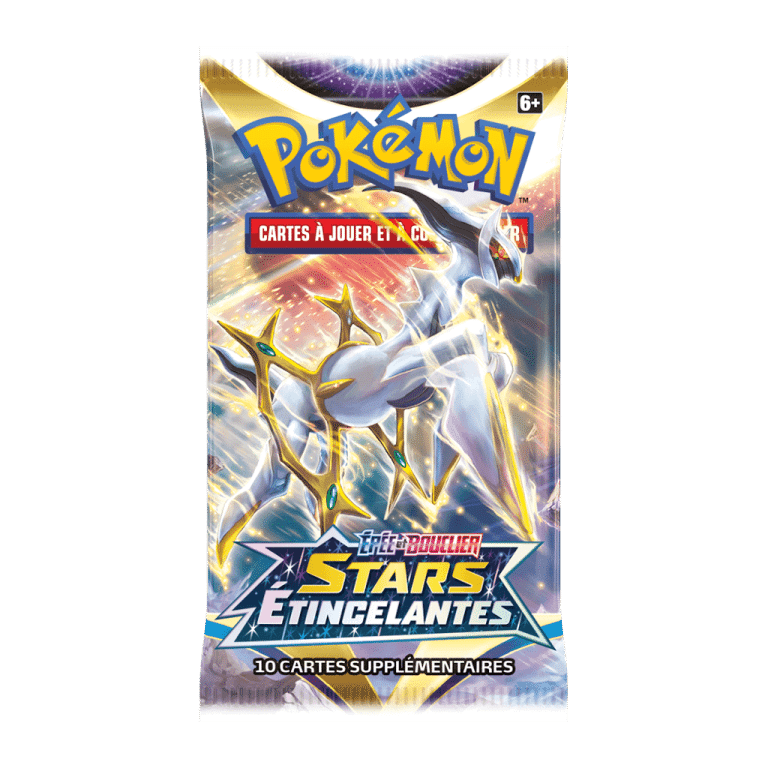
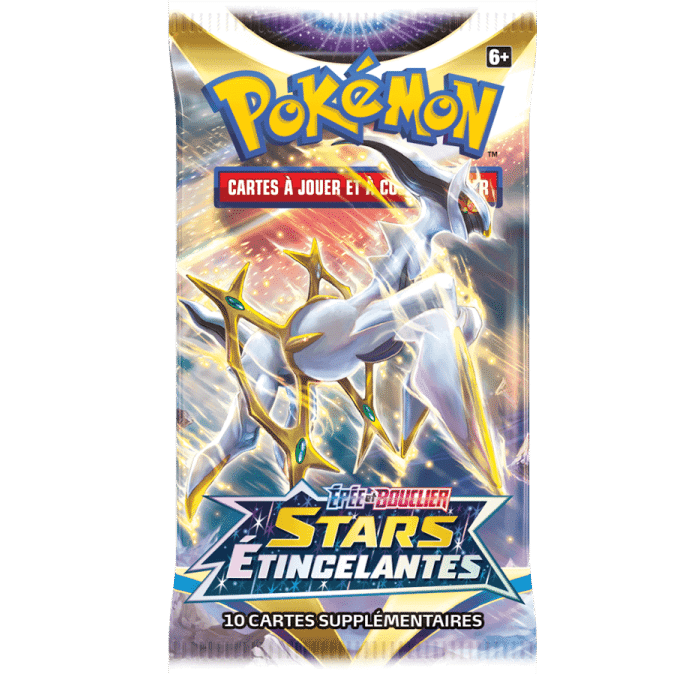
modification de la taille des booster

diff --git a/index.html b/index.html
@@ -22,12 +22,10 @@
                 <div class="swiper-wrapper">
                     <div class="swiper-slide"><img class="booster" src="/boosters/1.png" alt="Booster Pokémon"></div>
                     <div class="swiper-slide"><img class="booster" src="/boosters/2.png" alt="Booster Pokémon"></div>
-                    <div class="swiper-slide"><img class="booster" src="/boosters/4.png" alt="Booster Pokémon"></div>
                     <div class="swiper-slide"><img class="booster" src="/boosters/3.png" alt="Booster Pokémon"></div>
                     <div class="swiper-slide"><img class="booster" src="/boosters/4.png" alt="Booster Pokémon"></div>
                     <div class="swiper-slide"><img class="booster" src="/boosters/5.png" alt="Booster Pokémon"></div>
-                    <div class="swiper-slide"><img class="booster" src="/boosters/6.png" alt="Booster Pokémon"></div>
-                    <div class="swiper-slide"><img class="booster" src="/boosters/7.webp" alt="Booster Pokémon"></div>
+                    <div class="swiper-slide"><img class="booster" src="/boosters/6.webp" alt="Booster Pokémon"></div>
                 </div>
 
                 <!-- Pagination et navigation -->
